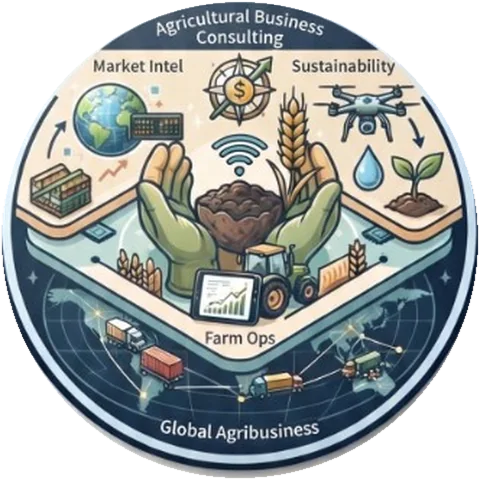
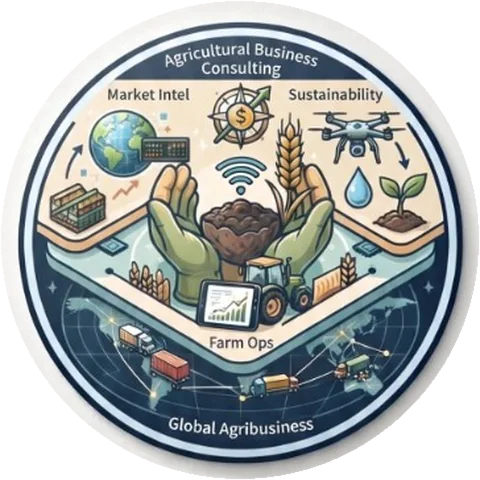
Show the full service illustrations instead of cropping their edges.

diff --git a/src/components/services/service-glyph.tsx b/src/components/services/service-glyph.tsx
@@ -12,7 +12,7 @@ export function ServiceGlyph({ index, className = "h-16 w-16" }: ServiceGlyphPro
       <img
         src={serviceArtwork[index]}
         alt=""
-        className="h-full w-full scale-110 object-cover"
+        className="h-full w-full object-contain"
       />
     </span>
   );
